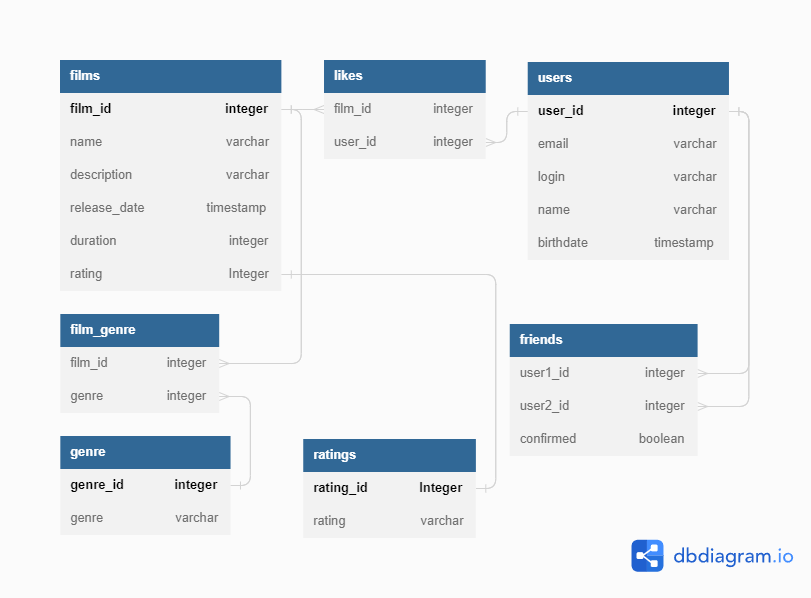
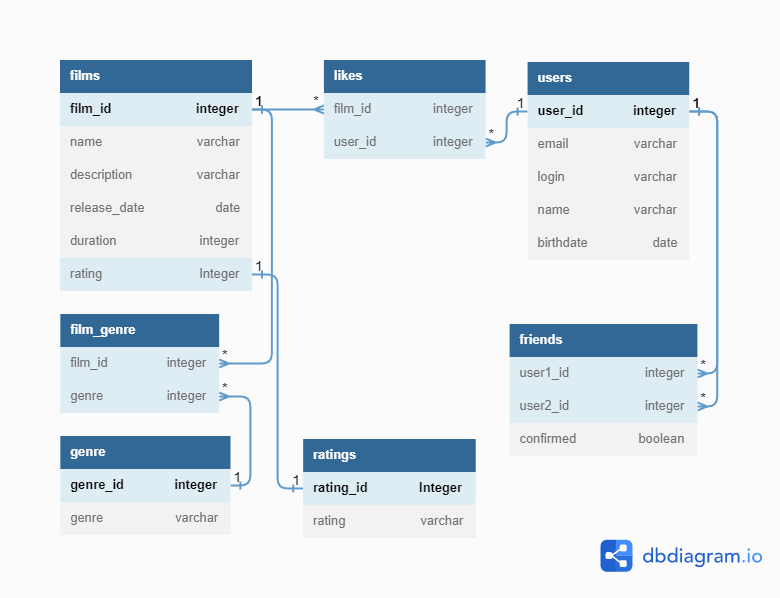
Учтены комментарии ревьюера от 14.03.2023

diff --git a/README.md b/README.md
@@ -17,32 +17,34 @@ FROM users;
 ### Get films liked by user
 SELECT *
 FROM films
-WHERE film_id IN (
-SELECT film_id
-FROM likes
-WHERE user_id = 1
+WHERE film_id IN 
+(
+    SELECT film_id
+    FROM likes
+    WHERE user_id = {id}
 );
 
 ### Get common friends
 SELECT *
 FROM users AS u
-WHERE ((u.user_id IN (
-SELECT user2_id
-FROM friends
-WHERE user1_id = id1 AND confirmed = true
+WHERE ((u.user_id IN \
+(
+    SELECT user2_id
+    FROM friends
+    WHERE user1_id = {id1} AND confirmed = true
 )) OR (u.user_id IN (
-SELECT user1_id
-FROM friends
-WHERE user2_id = id1 AND confirmed = true
+    SELECT user1_id
+    FROM friends
+    WHERE user2_id = {id1} AND confirmed = true
 )))
 AND ((u.user_id IN (
-SELECT user2_id
-FROM friends
-WHERE user1_id = id2 AND confirmed = true
+    SELECT user2_id
+    FROM friends
+    WHERE user1_id = {id2} AND confirmed = true
 )) OR (u.user_id IN (
-SELECT user1_id
-FROM friends
-WHERE user2_id = id2 AND confirmed = true
+    SELECT user1_id
+    FROM friends
+    WHERE user2_id = {id2} AND confirmed = true
 )));
 
 ### Get top liked films
@@ -52,27 +54,27 @@ FROM likes AS l
 LEFT JOIN films AS f ON f.film_id = l.film_id
 GROUP BY f.name
 ORDER BY likes_number DESC
-LIMIT count;
+LIMIT {count};
 
 ### Find user
 SELECT *
 FROM users
-WHERE user_id = id
+WHERE user_id = {id}
 
 ### Find film
 SELECT *
 FROM films
-WHERE film_id = id1
+WHERE film_id = {id}
 
 ### Find friends
 SELECT *
 FROM users
 WHERE user_id IN (
-SELECT user2_id
-FROM friends
-WHERE user1_id = 1 AND confirmed = true
+    SELECT user2_id
+    FROM friends
+    WHERE user1_id = {id} AND confirmed = true
 ) OR user_id IN (
-SELECT user1_id
-FROM friends
-WHERE user2_id = 1 AND confirmed = true
+    SELECT user1_id
+    FROM friends
+    WHERE user2_id = {id} AND confirmed = true
 );
